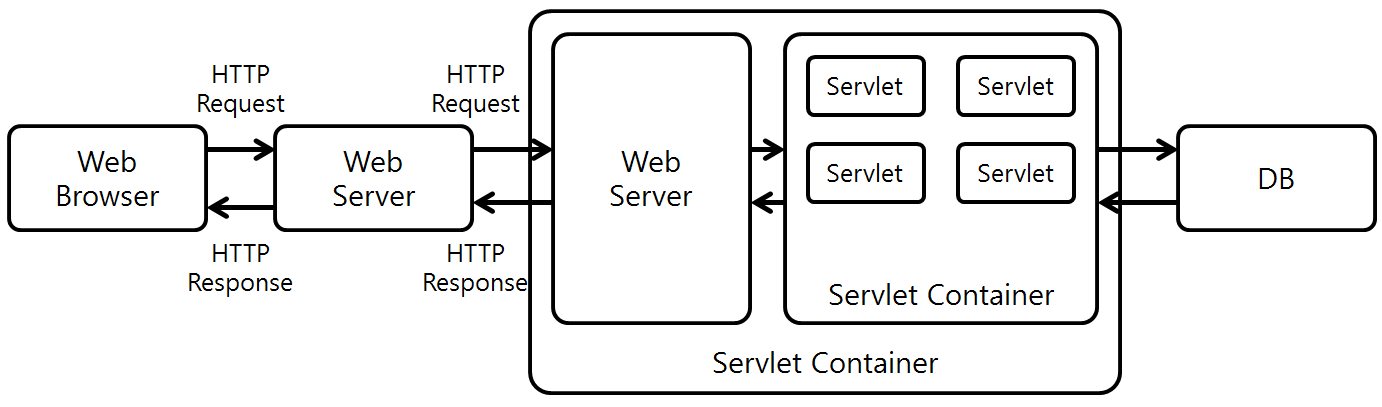
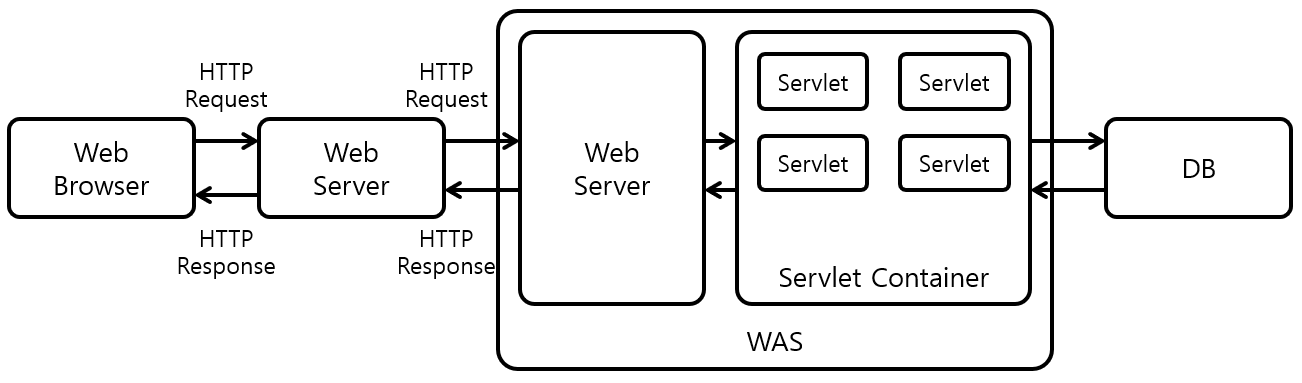
Update Servlet

diff --git a/_docs/theory_analysis/Servlet_Servlet_Container.md b/_docs/theory_analysis/Servlet_Servlet_Container.md
@@ -11,7 +11,7 @@ Servlet과 Servlet Container를 분석한다.
 
 ### 1. Servlet
 
-Servlet은 **javax.servlet Package**를 기반으로, Server에서 동작하는 Class들을 의미한다. 각 Servlet은 init(), service(), destory() 3개의 method를 반드시 정의해야 한다.
+Servlet은 Java EE의 표준중 하나로 **javax.servlet Package**를 기반으로 Server에서 동작하는 Class들을 의미한다. 각 Servlet은 init(), service(), destory() 3개의 method를 반드시 정의해야 한다.
 
 * init() - init()은 Servlet 생성시 호출된다. Parameter로 javax.servlet.ServletConfig Interface 기반의 Instance가 넘어오는데, Servlet을 초기화 하고 Servlet이 이용하는 자원을 할당하는 동작을 수행한다.
 * service() - Servlet으로 요청이 전달 될때마다 호출된다. 실제 Service Logic을 수행한다.
